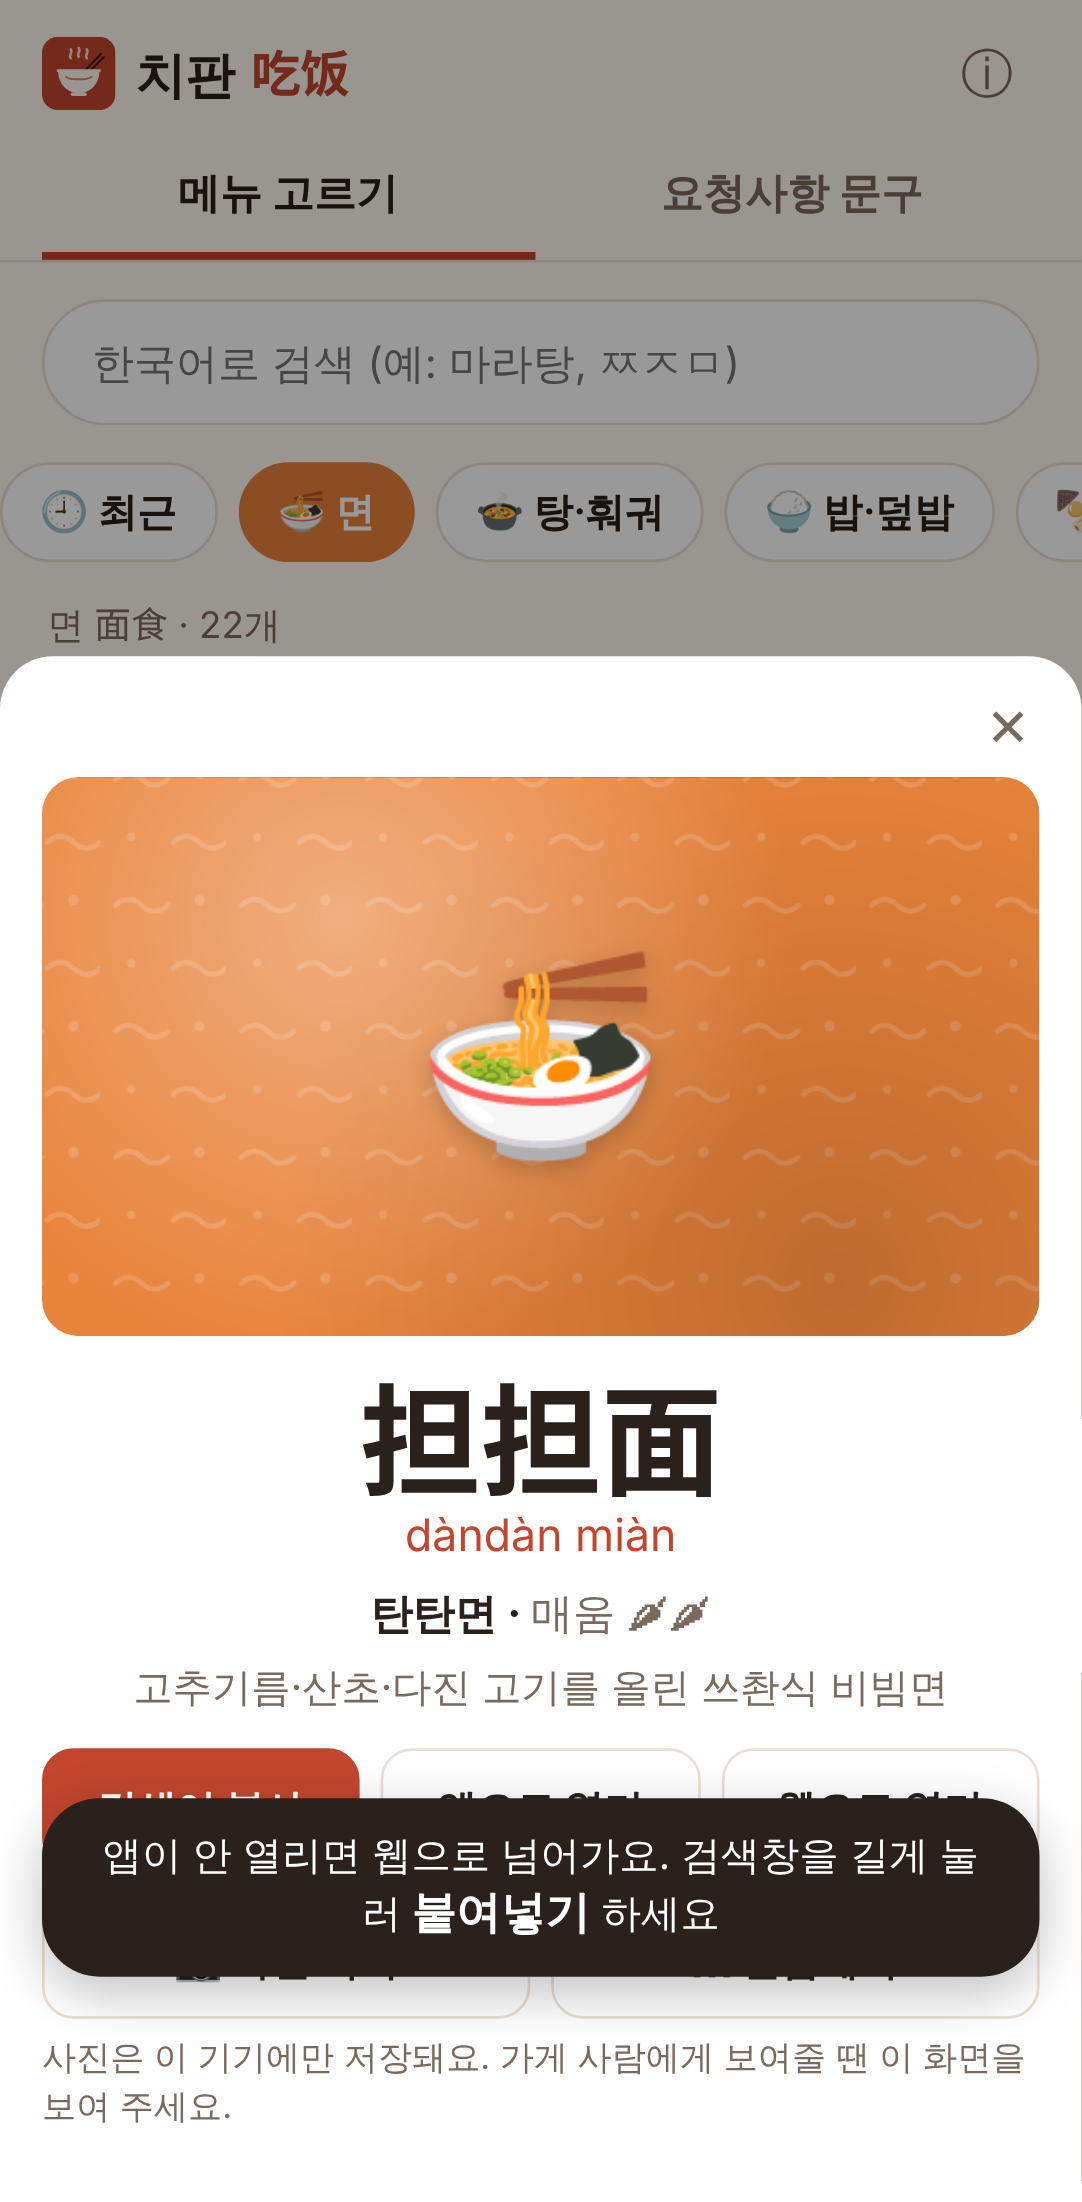
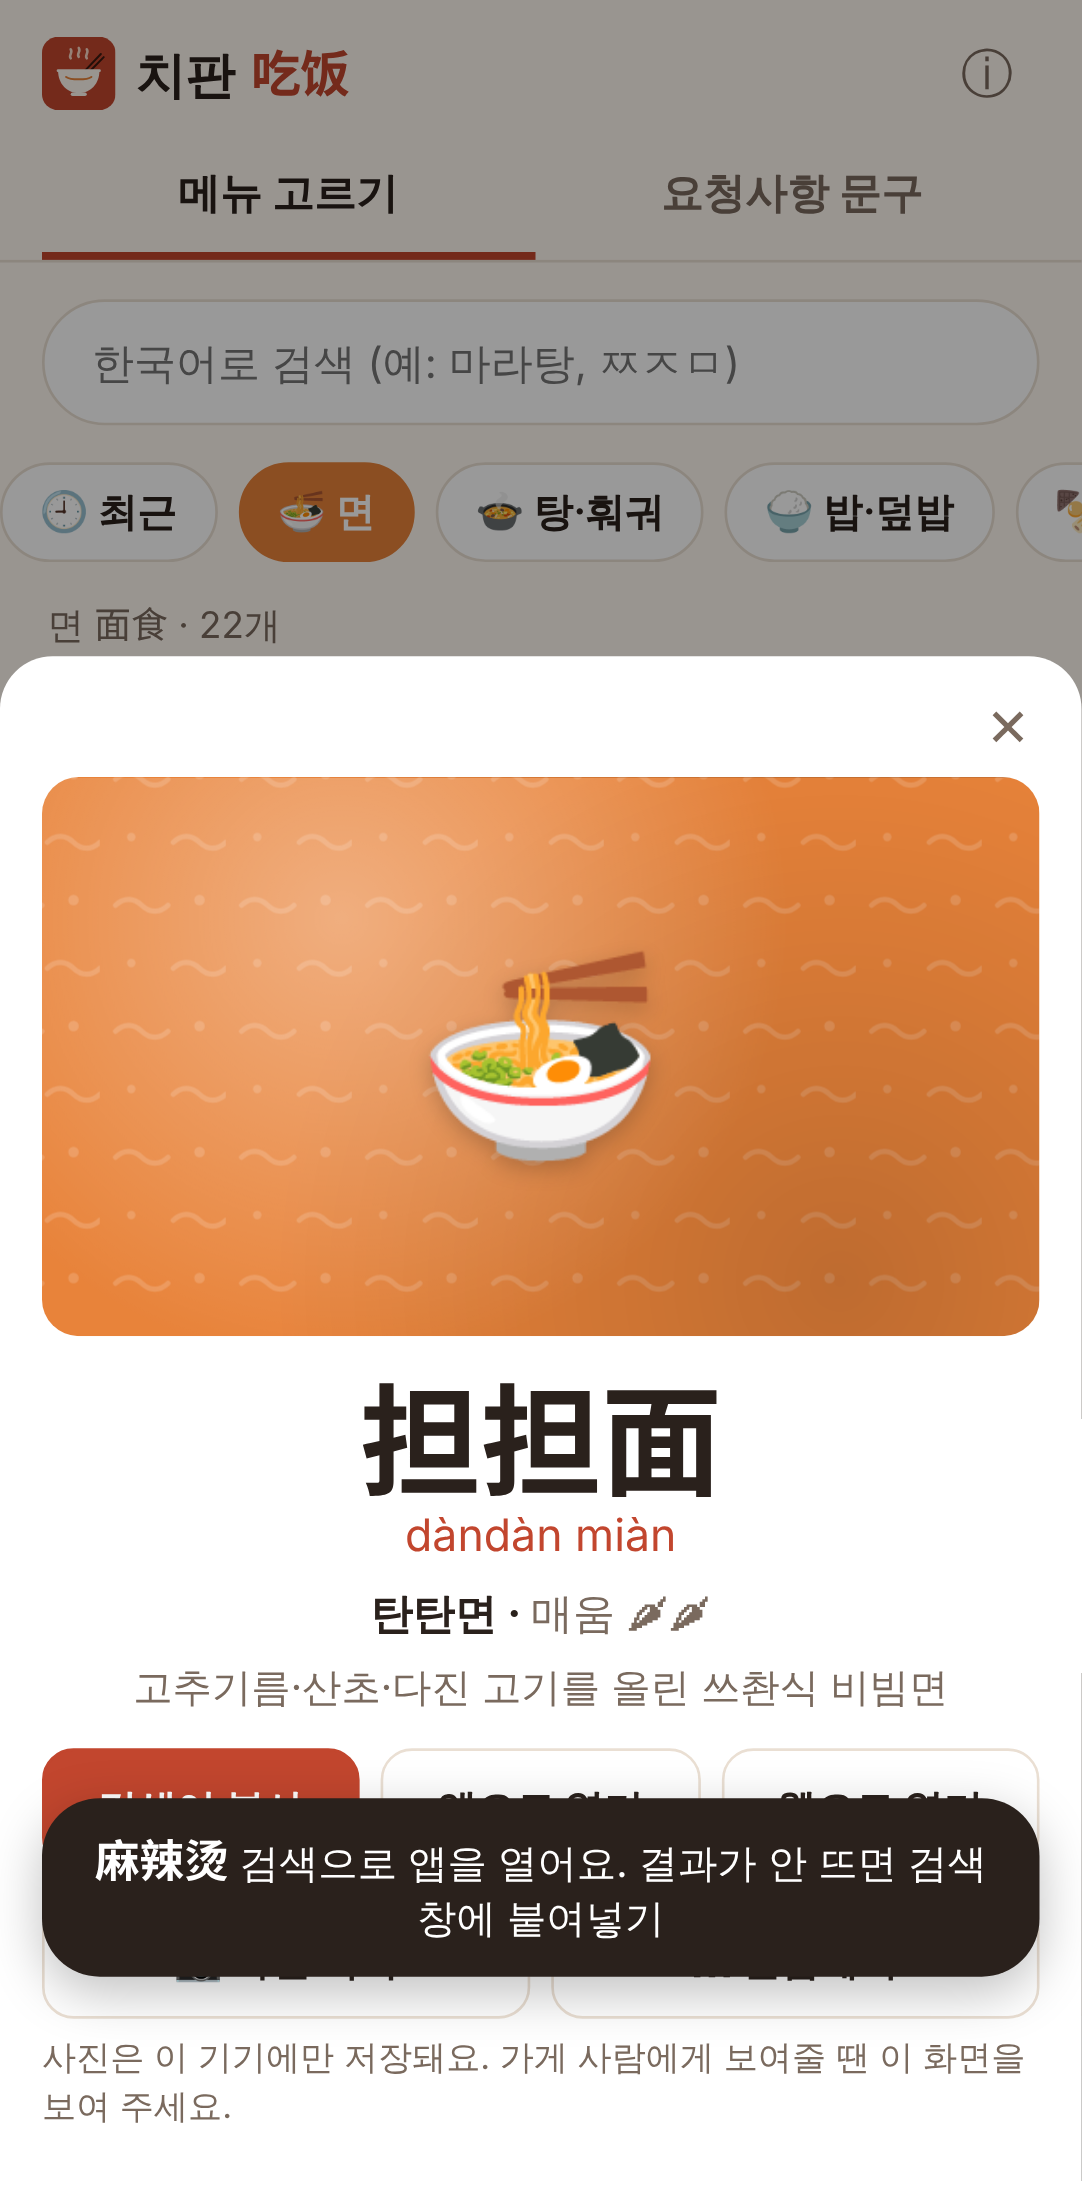
[앱으로 열기]로 검색어 바로 넘기기 다시 켜기 (안드로이드 실기기에서 search?q= 동작 확인)
- 마지막 복사 검색어를 저장해 새로고침 뒤에도 앱에 넘김 (처음 실패 원인으로 보임)
- lab.html에 치판과 똑같은 링크(웹 대체 주소 포함) 확인용 버튼 추가

Changed region(s): [[0.0915, 0.8338, 0.915, 0.8955]]

diff --git a/tests/screens.js b/tests/screens.js
@@ -71,10 +71,12 @@ async function run(browser, name, dev) {
   await page.evaluate(() => { window.__went = []; });
   await page.click('#openAppBtn');
   if (name === 'pixel7') {
+    // 복사한 검색어(麻辣烫)를 앱 검색 경로로 넘긴다
     assert.deepStrictEqual(await page.evaluate(() => window.__went),
-      ['intent://#Intent;scheme=imeituan;package=com.sankuai.meituan;S.browser_fallback_url=' + encodeURIComponent(H5) + ';end']);
+      ['intent://www.meituan.com/search?q=' + encodeURIComponent('麻辣烫') +
+       '#Intent;scheme=imeituan;package=com.sankuai.meituan;S.browser_fallback_url=' + encodeURIComponent(H5) + ';end']);
   } else {
-    const ios = 'imeituan://';
+    const ios = 'imeituan://www.meituan.com/search?q=' + encodeURIComponent('麻辣烫');
     assert.deepStrictEqual(await page.evaluate(() => window.__went), [ios]);
     await page.waitForTimeout(1800); // 앱이 안 열리면 웹으로
     assert.deepStrictEqual(await page.evaluate(() => window.__went), [ios, H5]);
@@ -112,6 +114,7 @@ async function run(browser, name, dev) {
   await shot('05-photo');
   await page.reload();
   await page.waitForSelector('.card[data-id="dandanmian"] .art.has-photo'); // 새로고침 뒤에도 남아 있음
+  assert.match(await page.textContent('#dockText'), /麻辣烫/, '새로고침 뒤에도 마지막 복사한 검색어 유지');
   assert.ok(!(await page.isVisible('#setupCard')), '설치 안내는 [이미 있어요] 뒤 다시 안 나옴');
 
   // 5) 요청사항 문구

diff --git a/js/app.js b/js/app.js
@@ -63,6 +63,7 @@
     var q = f.q || f.zh;
     return copyText(q).then(function (ok) {
       S.lastCopied = f;
+      LS.set('lastCopied', f.id);
       S.recent = [f.id].concat(S.recent.filter(function (id) { return id !== f.id; })).slice(0, 24);
       LS.set('recent', S.recent);
       if (ok) toast('복사됨: <b lang="zh-CN">' + esc(q) + '</b>');
@@ -86,7 +87,9 @@
       ? '검색창을 길게 눌러 <b>붙여넣기</b> 하세요'
       : '먼저 메뉴 카드를 눌러 검색어를 복사해 두면 편해요';
     if (mode === 'app' && how === 'h5' && Opener.env.inApp) msg = '앱 안 브라우저라 웹으로 열었어요. ' + msg;
-    else if (how !== 'h5') msg = '앱이 안 열리면 웹으로 넘어가요. ' + msg;
+    else if (how !== 'h5') msg = S.lastCopied
+      ? '<b lang="zh-CN">' + esc(S.lastCopied.q || S.lastCopied.zh) + '</b> 검색으로 앱을 열어요. 결과가 안 뜨면 검색창에 붙여넣기'
+      : '앱이 안 열리면 웹으로 넘어가요. ' + msg;
     toast(msg, 3200);
   }
 
@@ -460,6 +463,8 @@
         S.foods.forEach(function (f) { S.foodById[f.id] = f; });
         if (!S.catById[S.cat] && S.cat !== 'recent') S.cat = S.cats[0].id;
         S.recent = S.recent.filter(function (id) { return S.foodById[id]; });
+        S.lastCopied = S.foodById[LS.get('lastCopied', '')] || null;
+        updateDock();
         renderCats();
         renderMemo();
         return Photos.keys().then(function (keys) {

diff --git a/js/config.js b/js/config.js
@@ -17,13 +17,14 @@ window.CHIFAN_CONFIG = {
       path: '',                  // 비워 두면 앱 첫 화면
       package: 'com.sankuai.meituan', // 확인됨 2026-10-28 (설치·실행)
       // 복사한 검색어가 있을 때 쓰는 경로. {q} = 검색어(URL 인코딩). 비워 두면 앱 첫 화면만 연다.
-      // 시도했으나 안 됨: 'www.meituan.com/search?q={q}' → 첫 화면만 열림 (2026-10-28, 안드로이드 실기기)
-      searchPath: ''
+      // 2026-10-28 안드로이드 실기기: lab.html 6번(이 형식)으로 검색 결과가 뜸.
+      // (처음 시험 땐 첫 화면만 열렸는데, 새로고침으로 복사한 검색어가 사라졌던 탓으로 보임 → 이제 저장해 둠)
+      searchPath: 'www.meituan.com/search?q={q}'
     },
 
     ios: {
       url: 'imeituan://',        // 미확인
-      searchUrl: '',             // 안드로이드에서 search?q= 형식이 안 됐으므로 비워 둠
+      searchUrl: 'imeituan://www.meituan.com/search?q={q}', // 미확인 (안드로이드에서 된 형식과 같게)
       fallbackMs: 1600           // 이 시간 안에 페이지가 숨겨지지 않으면 H5로
     }
   },

diff --git a/lab.html b/lab.html
@@ -46,8 +46,11 @@
       function (q) { return 'intent://search?keyword=' + q + '#Intent;scheme=imeituan;package=' + PKG + ';end'; }],
     ['mtwm 형식', '한 곳에만 나옴 (신뢰 낮음)',
       function (q) { return 'mtwm://waimai.meituan.com/search?query=' + q; }],
-    ['이미 시험함: 메이퇀 앱 search?q=', '첫 화면만 열림 (2026-10-28)',
-      function (q) { return 'intent://www.meituan.com/search?q=' + q + '#Intent;scheme=imeituan;package=' + PKG + ';end'; }, true]
+    ['메이퇀 앱 search?q=', '2026-10-28 검색 결과 뜸',
+      function (q) { return 'intent://www.meituan.com/search?q=' + q + '#Intent;scheme=imeituan;package=' + PKG + ';end'; }],
+    ['위와 같음 + 앱 없을 때 웹으로 (치판 [앱으로 열기]와 똑같은 링크)', '확인용',
+      function (q) { return 'intent://www.meituan.com/search?q=' + q + '#Intent;scheme=imeituan;package=' + PKG +
+        ';S.browser_fallback_url=' + encodeURIComponent('https://h5.waimai.meituan.com/waimai/mindex/home') + ';end'; }]
   ];
 
   function render() {

diff --git a/sw.js b/sw.js
@@ -1,5 +1,5 @@
 // 오프라인용 서비스워커. 파일을 바꾸면 VERSION을 올릴 것.
-var VERSION = 'chifan-v6';
+var VERSION = 'chifan-v7';
 var CORE = [
   './',
   'index.html',

diff --git a/README.md b/README.md
@@ -65,7 +65,8 @@
 | H5 주소 | `https://h5.waimai.meituan.com/waimai/mindex/home` | 이 클라우드 환경에서 접속만 확인 (해외 IP라 가게 목록은 안 뜸) | 2026-10 |
 | 안드로이드 패키지명 | `com.sankuai.meituan` | **확인됨** (설치·실행) | 2026-10-28 / 사용자 안드로이드 폰 |
 | 안드로이드 intent scheme / path | `imeituan` / (빈칸) | **확인됨** ([앱으로 열기] → 앱 실행) | 2026-10-28 / 사용자 안드로이드 폰 |
-| 검색어 넘기기 | `imeituan://www.meituan.com/search?q={검색어}` (커뮤니티 URL 스킴 목록의 형식) | **안 됨** — 앱 첫 화면만 열림. 설정에서 뺌 | 2026-10-28 / 사용자 안드로이드 폰 |
+| 검색어 넘기기 (안드로이드) | `imeituan://www.meituan.com/search?q={검색어}` (커뮤니티 URL 스킴 목록의 형식) | **확인됨** — lab.html 6번으로 검색 결과가 뜸. (처음 시험 땐 첫 화면만: 새로고침으로 복사 검색어가 사라졌던 탓으로 보임, 저장하도록 고침) | 2026-10-28 / 사용자 안드로이드 폰 |
+| 검색어 넘기기 (iOS) | 같은 형식 | **미확인** | — |
 | iOS URL 스킴 | `imeituan://` | **미확인 (추정)** | — |
 | 설치: 안드로이드 스토어 | `market://details?id=com.sankuai.meituan` → 1.6초 안에 안 열리면 Google Play 웹 | **미확인** (패키지명 추정) | — |
 | 설치: iOS App Store | `https://apps.apple.com/cn/app/id423084029` | **미확인** (앱 ID 추정, 중국 지역 Apple ID 필요할 수 있음) | — |
@@ -73,9 +74,9 @@
 설치 링크가 틀려도 `美团`이 복사돼 있으니 스토어 검색창에 붙여넣으면 된다. Google Play는 중국 안에서 안 열리고, 중국 폰(샤오미·화웨이 등)은 `market://`을 자기 스토어로 연다.
 
 **2026-10-28 실기기 확인 (안드로이드):** [앱 설치하기] → 설치됨, [앱으로 열기] → 메이퇀 앱 실행됨. 앱 첫 화면만 열 때는 검색어가 안 들어감.
-공개된 URL 스킴 모음에 나온 검색 경로(`imeituan://www.meituan.com/search?q=`)도 시험했지만 앱 첫 화면만 열렸다.
-그래서 [앱으로 열기]는 앱만 열고, 검색어는 클립보드 붙여넣기로 넘긴다. (메이퇀 페이지나 앱 코드는 분석하지 않음.
-다른 형식을 찾으면 `js/config.js`의 `searchPath`에 넣고 폰에서 다시 확인)
+공개된 URL 스킴 모음에 나온 후보를 `lab.html`로 하나씩 시험한 결과, 메이퇀 앱 `search?q=` 형식만 검색 결과를 열었다
+(`meituanwaimai://…/search?query=`, `query=`, `keyword=`, `mtwm://`는 안 됨). [앱으로 열기]는 마지막으로 복사한 검색어를 이 형식으로 넘긴다.
+안 되더라도 앱은 열리고 검색어는 클립보드에 있으므로 붙여넣기로 이어진다. (메이퇀 페이지나 앱 코드는 분석하지 않음)
 
 **검색 링크 시험 페이지:** `lab.html` (https://lesumein.github.io/chifan/lab.html). 공개 URL 스킴 모음에 나온 후보
 (`meituanwaimai://waimai.meituan.com/search?query=` 등)를 폰에서 한 번씩 눌러 보는 페이지. 되는 형식이 나오면 `js/config.js`에 반영한다.
